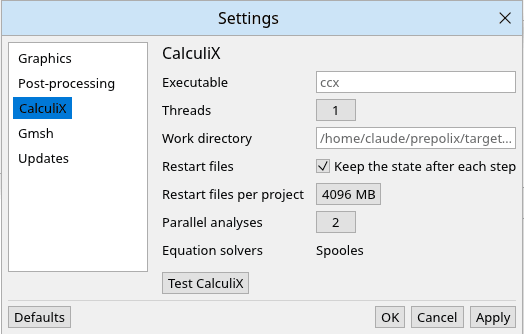
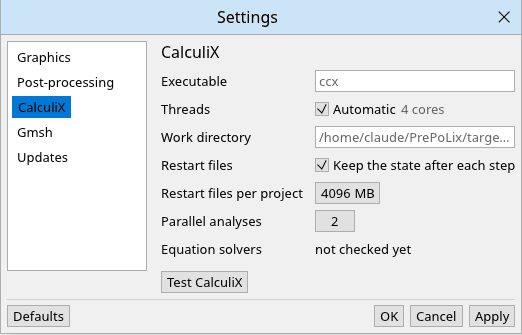
Solver threads default to all cores, shared by parallel runs (#344)
Settings::threads 0 means automatic: each run gets the available cores divided by the
analyses (Update Project) or Campbell speeds solved at the same time. Settings stored with
the old default of one thread become automatic.

Claude-Session: https://claude.ai/code/session_012pLXQKBANSadasaZBsFtBY

Changed region(s): [[0.0, 0.0, 1.0, 1.0], [0.3065, 0.8084, 0.4904, 0.8982]]

diff --git a/crates/plx-app/src/settings.rs b/crates/plx-app/src/settings.rs
@@ -33,7 +33,7 @@ pub const SHOW_LINKED_LABEL: &str = "Show linked items";
 pub const SHOW_LINKED_TIP: &str = "Lists the items of the FE Model tree that this analysis takes from another one. They stay in the model; hidden, the tree shows only what is set up here.";
 
 /// [`Settings::format`] of this version.
-const FORMAT: u32 = 1;
+const FORMAT: u32 = 2;
 
 impl Default for Settings {
     fn default() -> Self {
@@ -54,6 +54,10 @@ impl Settings {
     pub fn upgrade(&mut self) {
         if self.format < 1 {
             self.solver.forget_old_default();
+        }
+        if self.format < 2 && self.solver.threads == 1 {
+            // The old default of one thread: now all cores.
+            self.solver.threads = AUTOMATIC_THREADS;
         }
         self.format = FORMAT;
     }
@@ -127,7 +131,8 @@ pub struct Solver {
     /// The CalculiX executable; a bare name is looked up on `PATH`, empty for the one shipped
     /// with prepolix (see [`bundled_ccx`]).
     pub executable: String,
-    /// Threads for the solver (`OMP_NUM_THREADS`).
+    /// Threads for the solver (`OMP_NUM_THREADS`); [`AUTOMATIC_THREADS`] for all cores,
+    /// shared by the analyses solved at the same time.
     pub threads: u32,
     /// Where analyses run; empty for the default, see [`default_work_dir`].
     pub work_dir: String,
@@ -142,6 +147,14 @@ pub struct Solver {
     pub restart_limit_mb: u64,
     /// Most analyses Update Project solves at the same time.
     pub parallel_runs: u32,
+}
+
+/// [`Solver::threads`] for as many threads as the computer has cores.
+pub const AUTOMATIC_THREADS: u32 = 0;
+
+/// Cores of this computer, at least one.
+pub fn cores() -> u32 {
+    std::thread::available_parallelism().map_or(1, |n| n.get() as u32)
 }
 
 /// Result of [`crate::solver_check::available_solvers`] for one executable.
@@ -165,7 +178,7 @@ impl Default for Solver {
     fn default() -> Self {
         Self {
             executable: String::new(),
-            threads: 1,
+            threads: AUTOMATIC_THREADS,
             work_dir: String::new(),
             detected: None,
             keywords: None,
@@ -273,7 +286,26 @@ impl Solver {
                 "" => default_executable(),
                 path => path.into(),
             },
-            threads: self.threads.max(1),
+            threads: self.threads_of(1),
+        }
+    }
+
+    /// Threads of each of `concurrent` runs solved at the same time: the chosen number, or
+    /// with [`AUTOMATIC_THREADS`] an equal share of the cores, so that together they do not
+    /// ask for more than the computer has.
+    pub fn threads_of(&self, concurrent: usize) -> u32 {
+        match self.threads {
+            AUTOMATIC_THREADS => (cores() / concurrent.max(1) as u32).max(1),
+            threads => threads,
+        }
+    }
+
+    /// These settings for one of `concurrent` runs solved at the same time, see
+    /// [`Self::threads_of`].
+    pub fn shared_by(&self, concurrent: usize) -> Self {
+        Self {
+            threads: self.threads_of(concurrent),
+            ..self.clone()
         }
     }
 
@@ -284,6 +316,33 @@ impl Solver {
             self.executable.clear();
         }
     }
+}
+
+/// Automatic threads, or the number chosen.
+fn threads_ui(ui: &mut egui::Ui, threads: &mut u32) {
+    ui.horizontal(|ui| {
+        let mut automatic = *threads == AUTOMATIC_THREADS;
+        let tip = format!(
+            "Uses all {} cores of this computer. Analyses solved at the same time share them.",
+            cores()
+        );
+        if ui
+            .checkbox(&mut automatic, "Automatic")
+            .on_hover_text(tip)
+            .changed()
+        {
+            *threads = if automatic {
+                AUTOMATIC_THREADS
+            } else {
+                cores()
+            };
+        }
+        if automatic {
+            ui.weak(format!("{} cores", cores()));
+        } else {
+            ui.add(numeric::drag_value(threads).range(1..=256));
+        }
+    });
 }
 
 /// The fastest of the detected direct solvers, or CalculiX's own choice.
@@ -654,7 +713,7 @@ impl SettingsWindow {
                         );
                         ui.end_row();
                         ui.label("Threads");
-                        ui.add(numeric::drag_value(&mut solver.threads).range(1..=256));
+                        threads_ui(ui, &mut solver.threads);
                         ui.end_row();
                         ui.label("Work directory");
                         ui.add(
@@ -677,7 +736,7 @@ impl SettingsWindow {
                         ui.end_row();
                         ui.label("Parallel analyses");
                         ui.add(numeric::drag_value(&mut solver.parallel_runs).range(1..=64))
-                            .on_hover_text("Update Project solves up to this many independent analyses at the same time, each with the threads above; the Campbell sweep runs as many speeds at a time.");
+                            .on_hover_text("Update Project solves up to this many independent analyses at the same time, each with the threads above (with automatic threads they share the cores); the Campbell sweep runs as many speeds at a time.");
                         ui.end_row();
                         ui.label("Equation solvers");
                         ui.label(solvers_text(solver.solvers()))
@@ -949,6 +1008,30 @@ mod tests {
             std::path::Path::new("/opt/ccx")
         );
         assert_eq!(solver.work_dir(), std::path::Path::new("/tmp/plx"));
+    }
+
+    #[test]
+    fn automatic_threads_share_the_cores() {
+        let solver = Solver::default();
+        assert_eq!(solver.threads, AUTOMATIC_THREADS);
+        assert_eq!(solver.job_solver().threads, cores());
+        assert_eq!(solver.threads_of(2), (cores() / 2).max(1));
+        assert_eq!(solver.threads_of(10_000), 1);
+        let chosen = Solver {
+            threads: 3,
+            ..Solver::default()
+        };
+        assert_eq!(chosen.threads_of(4), 3);
+        assert_eq!(chosen.shared_by(4).job_solver().threads, 3);
+        // The old default of one thread becomes automatic, a later choice of one stays.
+        let mut old: Settings = ron::from_str("(format: 1, solver: (threads: 1))").unwrap();
+        old.upgrade();
+        assert_eq!(old.solver.threads, AUTOMATIC_THREADS);
+        let mut one = Settings::default();
+        one.solver.threads = 1;
+        let mut one: Settings = ron::from_str(&ron::to_string(&one).unwrap()).unwrap();
+        one.upgrade();
+        assert_eq!(one.solver.threads, 1);
     }
 
     #[test]

diff --git a/crates/plx-app/src/project.rs b/crates/plx-app/src/project.rs
@@ -4486,7 +4486,10 @@ impl ProjectApp {
         let path = self.model_path();
         let mut work_dir = self.settings.solver.work_dir();
         work_dir.push(crate::analysis::job_name(&self.project_name()));
-        let settings = self.settings.solver.clone();
+        // The analyses solved at the same time share the cores.
+        let parallel = self.settings.solver.parallel_runs.max(1) as usize;
+        let concurrent = (self.updating.len() + self.update_queue.len() + 1).min(parallel);
+        let settings = self.settings.solver.shared_by(concurrent);
         let force = self.forced.remove(&id);
         let Some(node) = self.nodes.iter_mut().find(|n| n.id == id) else {
             return Start::Refused;

diff --git a/crates/plx-app/src/campbell.rs b/crates/plx-app/src/campbell.rs
@@ -884,7 +884,10 @@ impl CampbellWindow {
         if min_speed >= max_speed {
             return Err("The lowest speed must be below the highest.".into());
         }
-        let job_solver = solver.job_solver();
+        // The speeds solved at the same time share the cores.
+        let job_solver = solver
+            .shared_by(solver.parallel_runs.max(1) as usize)
+            .job_solver();
         if let Some(message) = crate::settings::missing_executable(&job_solver.executable) {
             return Err(format!("CalculiX not started: {message}"));
         }
